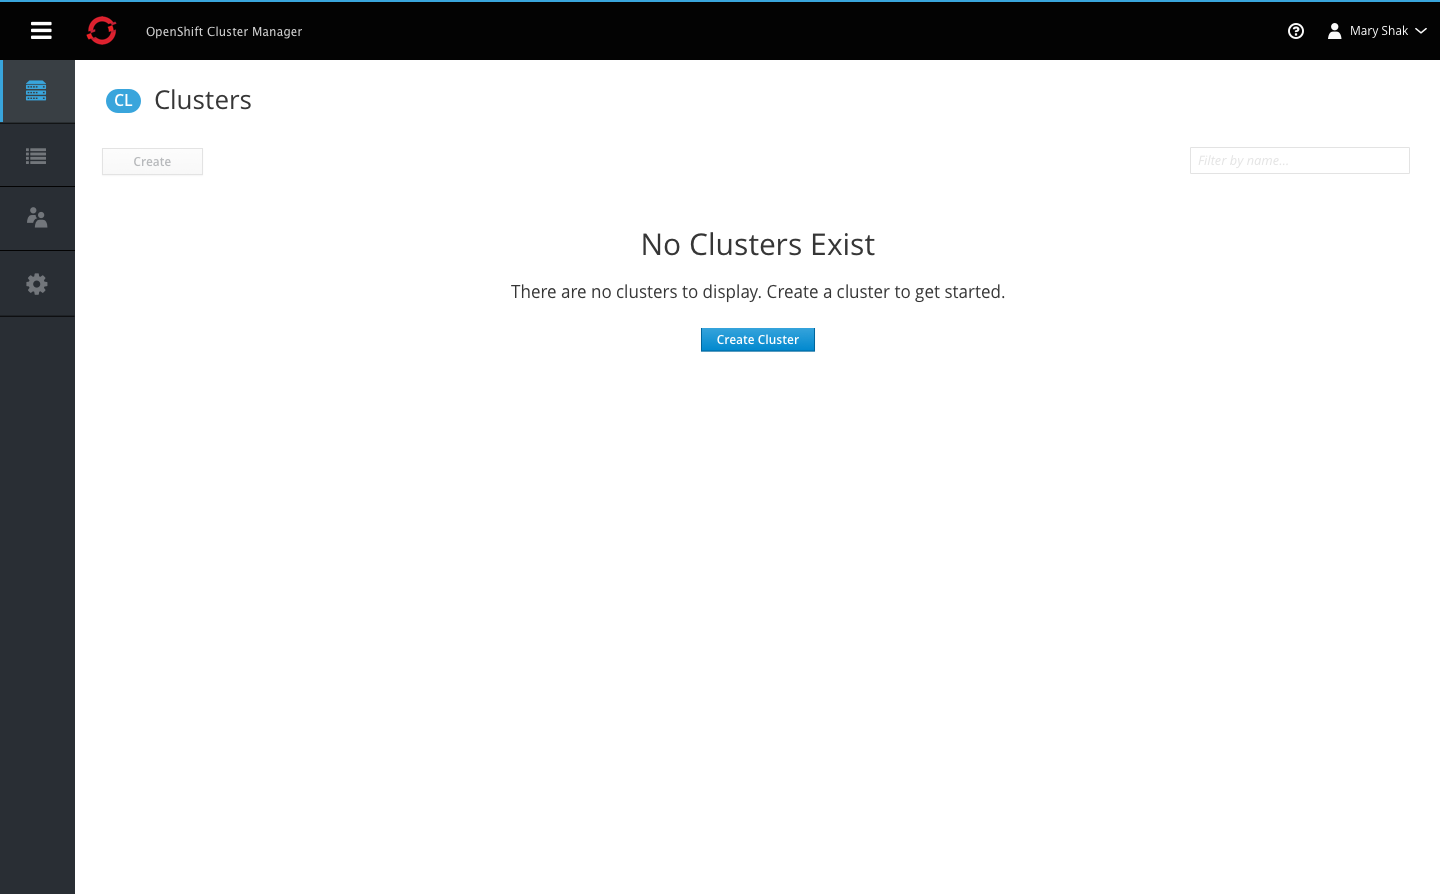
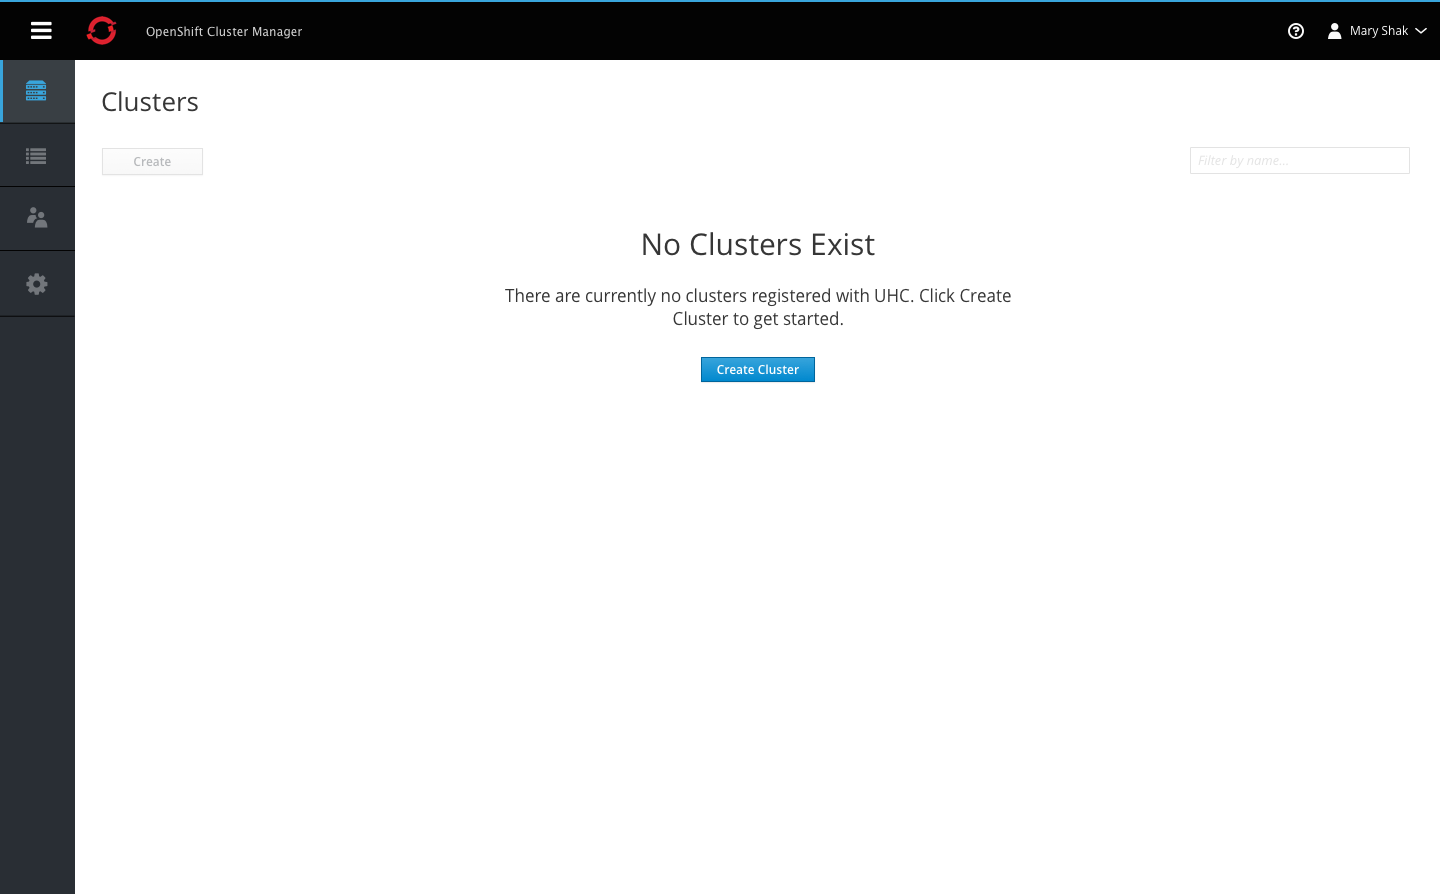
Updating images based on feedback

Changed region(s): [[0.3438, 0.302, 0.6875, 0.453], [0.0625, 0.0906, 0.1875, 0.151]]

diff --git a/web-console/4.0-designs/uhc-clusters/uhc-clusters.md b/web-console/4.0-designs/uhc-clusters/uhc-clusters.md
@@ -9,12 +9,12 @@ Red Hat Unified Hybrid Cloud (UHC) provides the centralized set of services requ
 - The vertical navigation should be collapsible into an icon-only view, by clicking the hamburger icon on desktop. On mobile, this action would hide the vertical navigation entirely.
 - Clicking the icon again will re-open the navigation displaying the labels.
 
-![Epty 2](img/01.png)
+![Empty 2](img/01.png)
 
 ## Cluster Summary View
 
 ### Empty State
-- When there are no clusters to display for this view, am empty state should be shown with some text and a single primary action button, as displayed in the images above.
+- When there are no clusters to display for this view, an empty state should be shown with some text and a single primary action button, as displayed in the images above.
 - Toolbar components are greyed out while in the empty state.
 - The cluster badge should be used with the page title.
 
